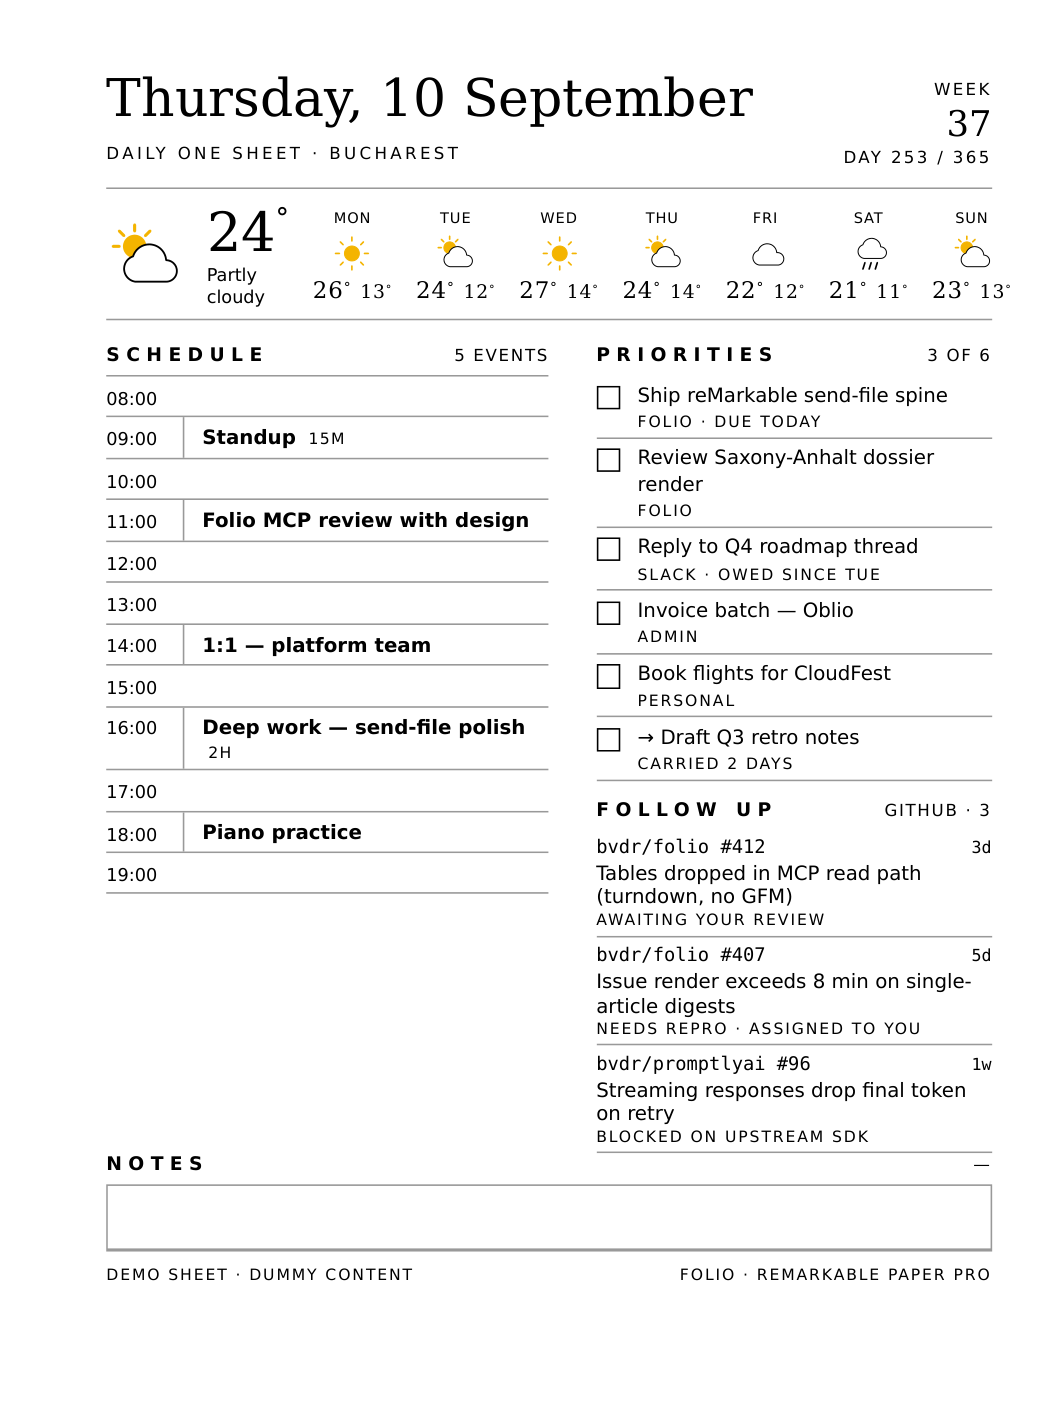
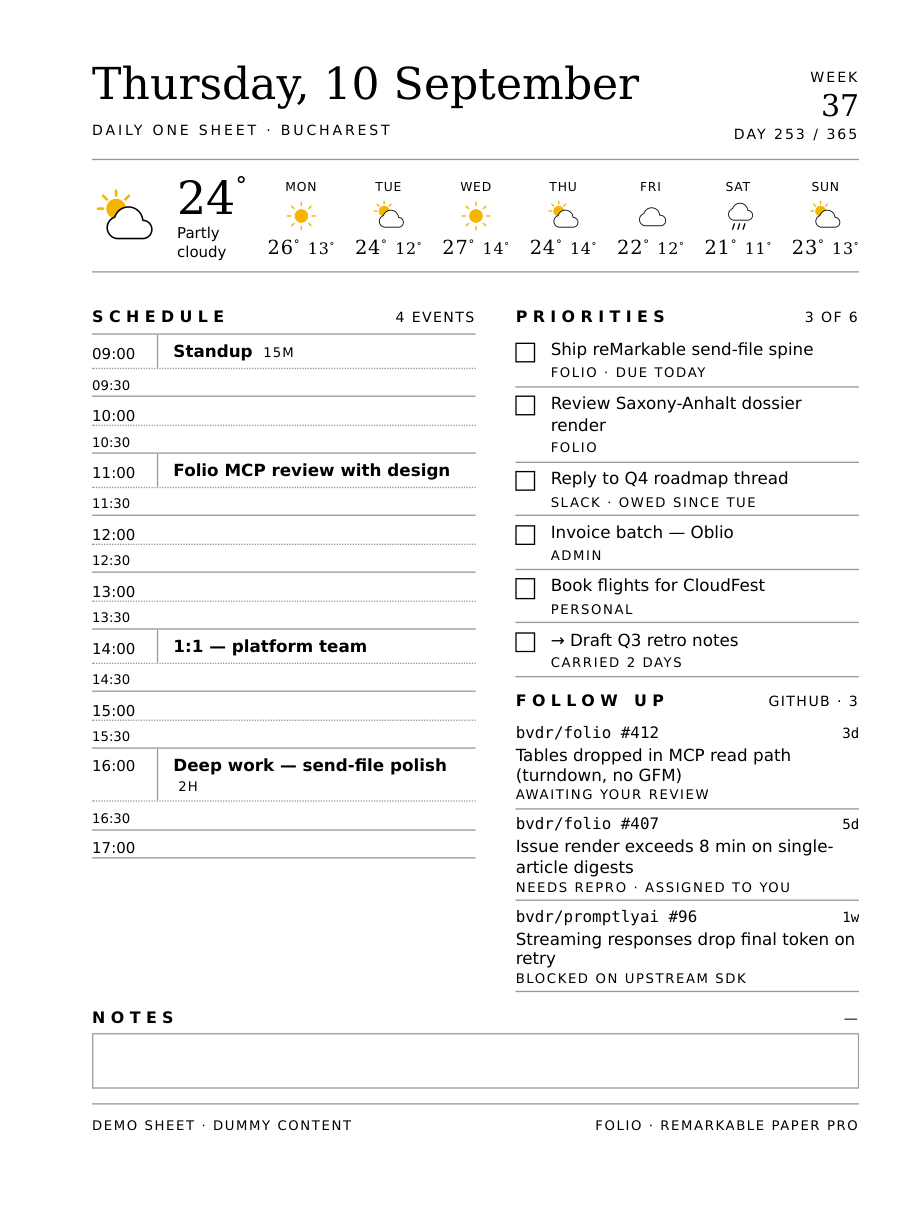
feat: half-hour schedule, per-page margins, and an optional lined page
Schedule supports a half-hour grid (hours solid, :30 dotted and smaller) which
fills the day column. Page margins moved into @page so a second page gets the
same toolbar-clear margin. Adds a full ruled .page2 for longer notes, with the
extra spacing under the weather rule.

Changed region(s): [[0.0913, 0.031, 0.9435, 0.9299], [0.913, 0.5889, 0.9435, 0.6199]]

diff --git a/plugins/daily-planner/skills/daily-planner/assets/planner.css b/plugins/daily-planner/skills/daily-planner/assets/planner.css
@@ -10,10 +10,6 @@
   --form: #9a9a9a;          /* form lines, rules, boxes: 30-40% black */
   --line: 0.75pt;           /* default rule weight (~2-3 device px) */
   --line-strong: 1pt;
-  --pad-top: 12mm;
-  --pad-bottom: 12mm;
-  --pad-left: 18mm;         /* wider: keeps the reMarkable left tool rail clear */
-  --pad-right: 12mm;
   --gap: 3mm;
   --sun: #000;              /* mono default: filled-black sun. Colour devices override. */
   --serif: Georgia, "Gelasio", "Times New Roman", serif;
@@ -26,7 +22,7 @@ body.color { --sun: #f4b400; }   /* colour e-ink (reMarkable Paper Pro): warm su
 html, body { background: #fff; color: var(--ink); }
 body {
   font-family: var(--sans); font-size: 10pt;
-  padding: var(--pad-top) var(--pad-right) var(--pad-bottom) var(--pad-left);
+  padding: 0;   /* page margins come from the @page rule so page 2 gets them too */
   -webkit-font-smoothing: antialiased;
 }
 .sheet { display: flex; flex-direction: column; gap: var(--gap); min-height: 100%; }
@@ -85,7 +81,9 @@ body {
 .col--left { flex: 0 0 50%; }
 
 /* ---- Schedule timeline ---- */
-.sched .slot { display: flex; min-height: 7mm; border-top: var(--line) solid var(--form); }
+.sched .slot { display: flex; min-height: 5.6mm; border-top: var(--line) solid var(--form); }
+.sched .slot.half { border-top-style: dotted; }
+.sched .slot.half .slot__time { font-size: 7.5pt; }
 .sched .slot:last-child { border-bottom: var(--line) solid var(--form); }
 .slot__time { width: 13mm; flex: none; font-size: 8.5pt; padding-top: 1.8mm; }
 .slot__event { flex: 1; padding: 1.3mm 0 1.3mm 3mm; font-size: 9.5pt; font-weight: 700; }
@@ -124,3 +122,14 @@ body {
 .foot { padding-top: 2.5mm; border-top: var(--line) solid var(--form);
   display: flex; justify-content: space-between; font-size: 7.5pt;
   letter-spacing: 0.12em; text-transform: uppercase; }
+
+
+/* ---- Page 2: a full ruled page for longer notes ---- */
+.page2 { break-before: page; display: flex; flex-direction: column; min-height: 100%; }
+.p2head { display: flex; justify-content: space-between; align-items: baseline;
+  font-size: 9pt; letter-spacing: 0.34em; text-transform: uppercase; font-weight: 700;
+  border-bottom: var(--line-strong) solid var(--ink); padding-bottom: 2.5mm; }
+.p2head span:last-child { font-family: var(--serif); font-size: 12pt; letter-spacing: 0;
+  text-transform: none; font-weight: 400; }
+.page2 .lines { flex: 1; margin-top: 4mm; }
+.page2 .ln { height: 9mm; }

diff --git a/plugins/daily-planner/skills/daily-planner/reference/modules.md b/plugins/daily-planner/skills/daily-planner/reference/modules.md
@@ -30,17 +30,19 @@ sun icon renders warm; omit the class on mono devices. Set the toolbar padding f
 
 ```html
 <!doctype html><html><head><meta charset="utf-8"><style>
-@page { size: 179.7mm 239.5mm; margin: 0; }   /* <- device page_mm */
-:root { --pad-left: 18mm; }                     /* toolbar side gets the wider pad */
+@page { size: 179.7mm 239.5mm; margin: 12mm 12mm 12mm 18mm; }  /* top right bottom left */
 /* paste the full contents of assets/planner.css here */
 </style></head>
-<body class="color"><div class="sheet">
-  <!-- header, weather, .cols, notes, footer -->
-</div></body></html>
+<body class="color">
+  <div class="sheet"><!-- header, weather, .cols, notes, footer --></div>
+  <!-- optional extra lined page(s) go here, see "lined page" below -->
+</body></html>
 ```
 
-reMarkable tool rail is on the **left**, so keep `--pad-left` wide (default 18mm).
-Supernote's is on the right: set `--pad-right: 18mm` and `--pad-left: 12mm` instead.
+Margins live in the **`@page` rule** so every printed page (including an extra lined page)
+gets them. The **toolbar side gets the wider margin**: reMarkable's rail is on the left,
+so `margin: 12mm 12mm 12mm 18mm`. Supernote's is on the right, so flip it to
+`margin: 12mm 18mm 12mm 12mm`. Kindle Scribe has no rail: `margin: 12mm`.
 
 Deliver: render with `scripts/render.py`, then Folio `create_upload` + `send_file`
 (reMarkable / Kindle) or Dropbox / Drive (Supernote). Name the file
@@ -98,17 +100,24 @@ you use this, since the week already carries highs and lows. Ask the user which 
 ```
 
 ### schedule  — source: Google Calendar / dictation
-One `.slot` per hour from the user's day start to end. Add `has` to `.slot__event` when
-it holds an event (that draws the short left tick); leave empty ones blank to write in.
-`.dur` is an optional duration chip.
+One `.slot` per time step. Ask the user for the range and granularity; a **half-hour**
+grid (e.g. 09:00-17:00) is a good work-day default and fills the column well. Add `has`
+to `.slot__event` when it holds an event (draws the short left tick); leave empty ones
+blank to write in. Add `half` to the `.slot` on every `:30` row so its rule is dotted and
+its time smaller, which keeps the whole hours reading as the strong lines. `.dur` is an
+optional duration chip.
 ```html
 <div class="module sched">
   <div class="module__head">Schedule <span class="module__count">5 events</span></div>
   <div class="slot"><div class="slot__time">08:00</div><div class="slot__event"></div></div>
   <div class="slot"><div class="slot__time">09:00</div><div class="slot__event has">Standup <span class="dur">15m</span></div></div>
   <div class="slot"><div class="slot__time">10:00</div><div class="slot__event"></div></div>
-  <!-- one .slot per hour -->
+  <!-- one .slot per step -->
 </div>
+```
+Half-hour rows just add `half` and a `:30` time:
+```html
+<div class="slot half"><div class="slot__time">09:30</div><div class="slot__event"></div></div>
 ```
 
 ### priorities  — source: user, Notion/Todoist tasks, GitHub issues assigned
@@ -148,6 +157,20 @@ Repo/ref line is monospace with the age on the right.
 ### footer
 ```html
 <div class="foot"><span>10 September 2026 &middot; Folio</span><span>reMarkable Paper Pro</span></div>
+```
+
+### lined page  (optional extra page after the sheet)
+A full ruled page for longer notes. Put it **after** `</div>` of `.sheet`, still inside
+`<body>`. `.page2` forces a page break and fills the page with ruled lines; it inherits
+the same `@page` margins (so the toolbar side stays clear). Add more `.page2` blocks for
+more pages. Use `dotted` on `.lines` for a dot grid instead of rules.
+```html
+<div class="page2">
+  <div class="p2head"><span>Notes</span><span>Thursday, 10 September</span></div>
+  <div class="lines">
+    <div class="ln"></div><!-- ~22 lines fill the page -->
+  </div>
+</div>
 ```
 
 ---

diff --git a/plugins/daily-planner/skills/daily-planner/SKILL.md b/plugins/daily-planner/skills/daily-planner/SKILL.md
@@ -68,16 +68,20 @@ a missing integration; fall back to interviewing.
 ## Step 6 - Build the HTML
 
 Follow `reference/modules.md` (it has the exact HTML for every module):
-- Write the page-setup head with the **literal** `@page { size: <w>mm <h>mm; margin: 0 }`
-  from the chosen device, and set `--pad-left`/`--pad-right` so the toolbar side gets the
-  wider padding (reMarkable = left, Supernote = right; see `devices.json`).
+- Write the page-setup head with the **literal** `@page { size: <w>mm <h>mm; margin: ... }`
+  from the chosen device. Margins live in the `@page` rule so every page (incl. an extra
+  lined page) gets them; give the **toolbar side the wider margin** (reMarkable = left ->
+  `12mm 12mm 12mm 18mm`; Supernote = right -> `12mm 18mm 12mm 12mm`; Kindle = `12mm`).
 - Paste the full contents of `assets/planner.css` into the `<style>`.
 - On a **colour** device (reMarkable Paper Pro) use `<body class="color">` so the weather
   icon renders warm; omit the class on mono devices (the sun falls back to black).
 - Weather: pick the icon for the condition from `assets/weather-icons.md`, and wrap every
   degree mark in `<span class="deg">&deg;</span>`.
 - Assemble: header, weather, then `.cols` (schedule left; priorities + follow-up right),
-  then a full-width notes module, then the footer.
+  then a full-width notes module, then the footer. A half-hour schedule (09:00-17:00) is a
+  good work-day default; add `half` to each `:30` row.
+- If the user wants more writing room, add one or more `.page2` lined pages after the
+  `.sheet` (see `reference/modules.md`).
 
 **E-ink rules (do not break these - see the device `render.guidelines`):**
 - Body text pure black. Form lines, rules and boxes at 30-40% black (`#999`-`#a8a8a8`).
